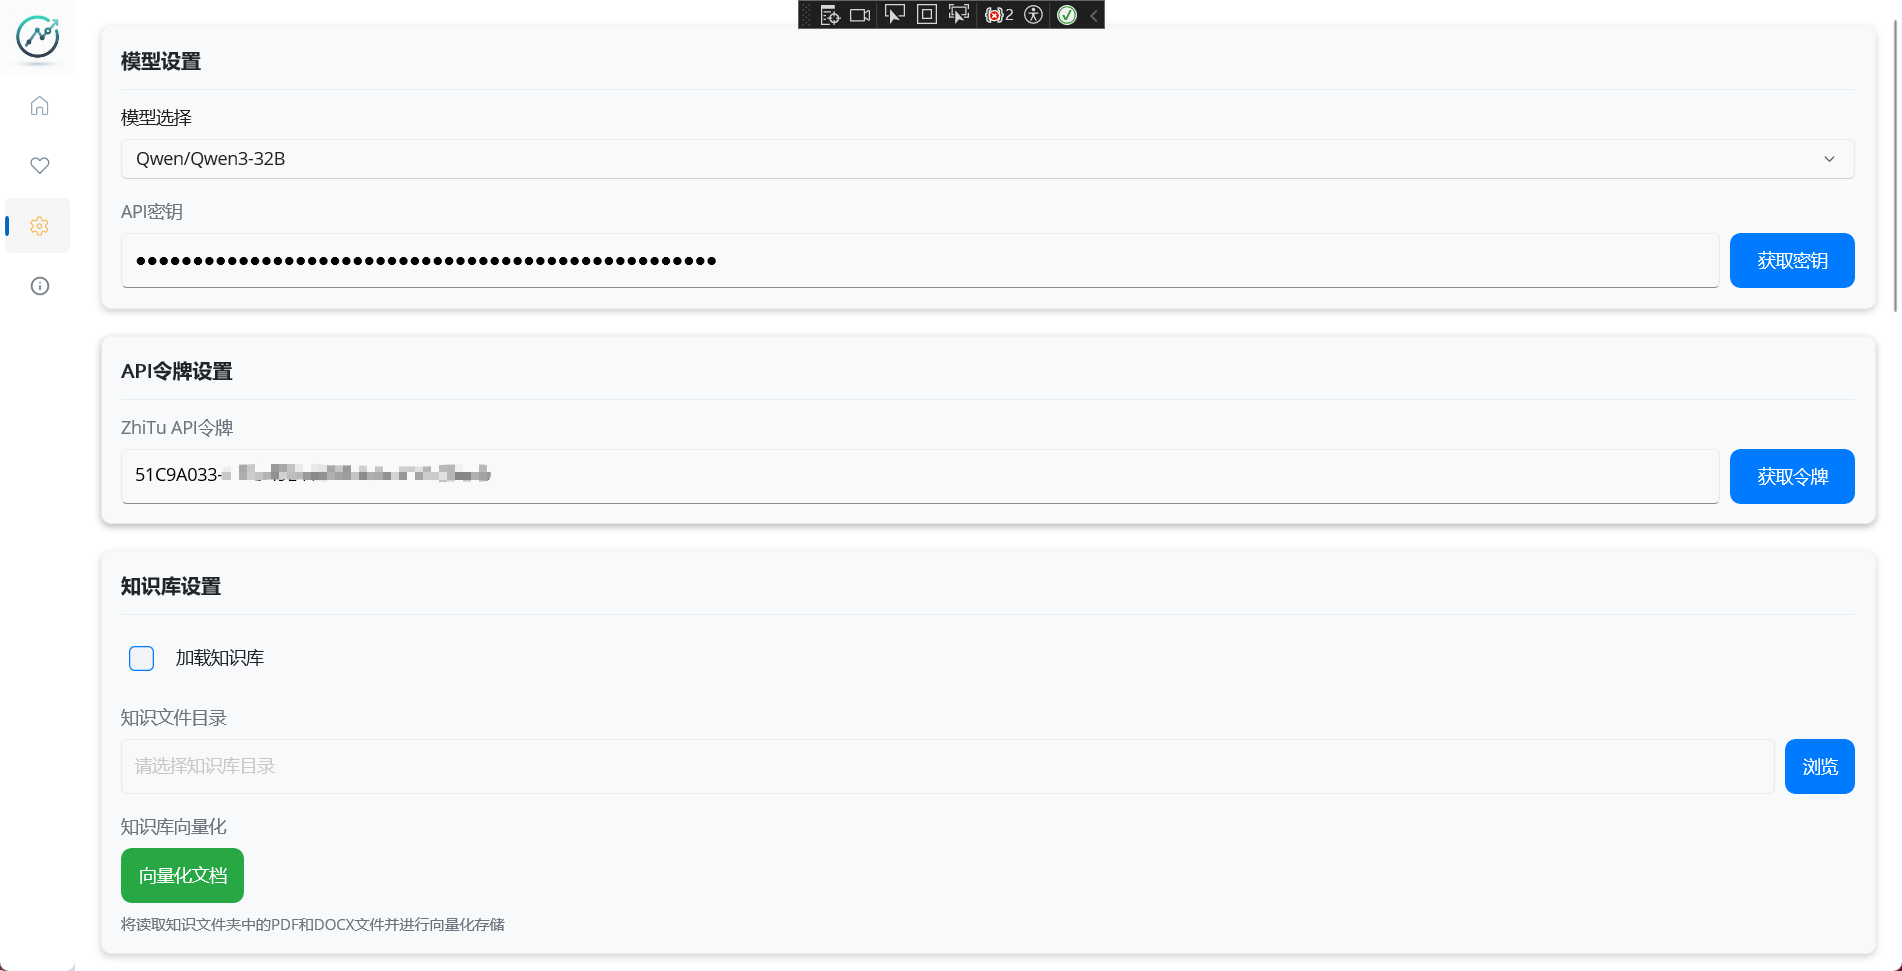
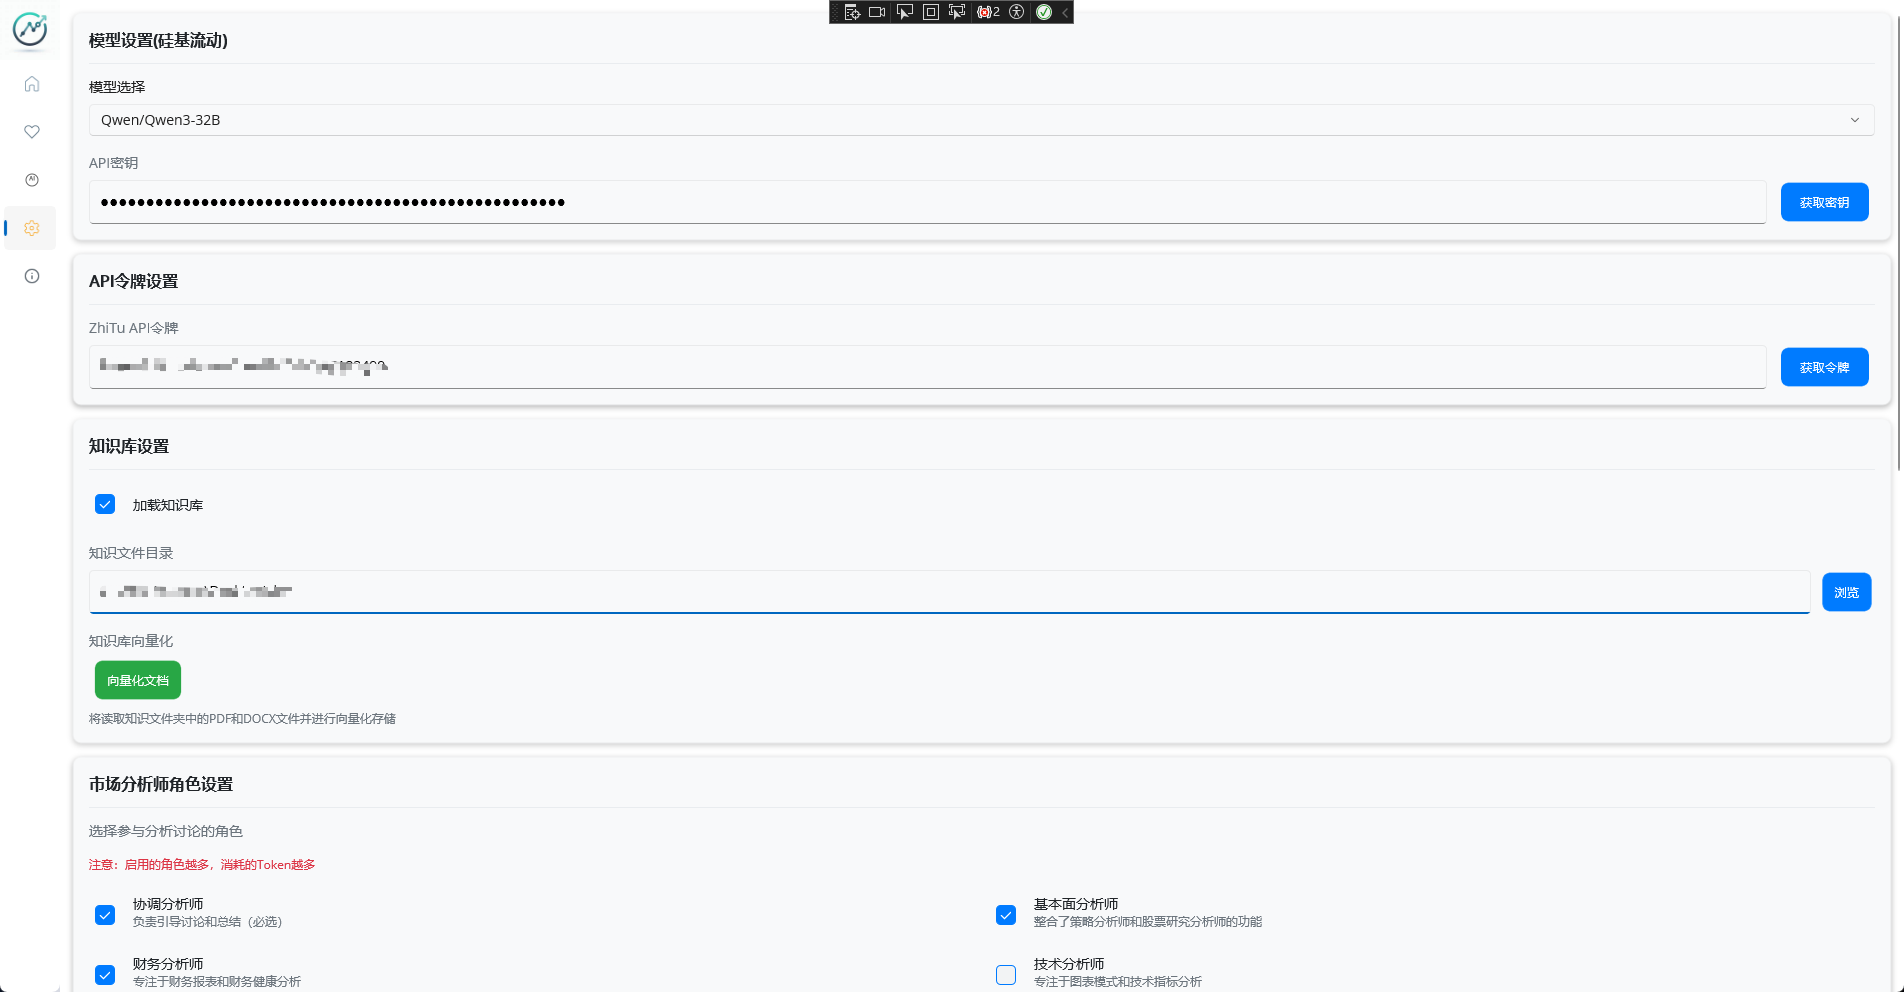
feat: 更新AI模型配置，添加SiliconCloud集成指南，优化README文档，新增性能优化建议和图像支持

diff --git a/README.md b/README.md
@@ -4,37 +4,31 @@
 
 支持市场整体/个股情绪分析，K线技术指标分析等功能。本项目仅供学习研究，投资有风险，入市需谨慎。
 
-## TODO
-
-- 增加股票推荐功能
-- 选定目录文档(Pdf,Docx)向量化搜索
-- SK Web Search 支持
-- MCP Client 支持
-- https://github.com/microsoft/semantic-kernel/blob/main/docs/decisions/0070-declarative-agent-schema.md
-- https://github.com/microsoft/semantic-kernel/blob/main/docs/decisions/0072-agents-with-memory.md
-- https://github.com/microsoft/semantic-kernel/blob/main/docs/decisions/0072-context-based-function-selection.md
-- https://learn.microsoft.com/zh-cn/semantic-kernel/frameworks/agent/agent-contextual-function-selection?pivots=programming-language-csharp#how-contextual-function-selection-works
-
-
-- 与其让子Agent把大块的结构化结果（代码、报告）通过对话历史传给主Agent（这会失真且昂贵），不如让它直接调用工具将产出物存到文件系统，再把轻量的“引用/指针”传回去。这能最大化保证并降低Token成本。
-- 总结已完成的阶段性工作，存入外部记忆，然后带着干净的上下文继续，通过“记忆”来保持连续性
-- 精细化任务指导（目前还是硬编码规划），主Agent会给子Agent非常明确的目标、输出格式和任务边界
-
 ## 📊 主要功能
 
 ### 股票分析
 
-- 基本面分析：公司基本情况、财务状况、行业地位等
-- 技术面分析：K线图、技术指标、趋势分析
-- 新闻事件分析：相关新闻、公告解读
-- 市场情绪分析：市场整体情绪、个股情绪
-- 财务分析：季度财报、现金流、盈利能力
+- **基本面分析**：公司基本情况、财务状况、行业地位等
+- **技术面分析**：K线图、技术指标、趋势分析
+- **新闻事件分析**：相关新闻、公告解读
+- **市场情绪分析**：市场整体情绪、个股情绪
+- **财务分析**：季度财报、现金流、盈利能力
+  
+### AI选股功能
+- **用户需求分析**: 根据投资偏好智能推荐股票
+- **新闻驱动选股**: 基于市场新闻事件进行选股
+- **快速策略选股**: 预设多种选股策略
+  - 价值股策略：PE<20, PB<3, ROE>10%
+  - 成长股策略：营收增长>20%, 利润增长>15%
+  - 大盘股策略：市值>500亿的蓝筹股
+  - 小盘股策略：50-200亿市值的成长股
+  - 红利股策略：股息率>3%的稳定分红股
 
 ### 文档向量化
 
-- 支持PDF、DOCX等文档格式
-- 向量化搜索，获取最新相关信息
-- 结合LLM进行智能分析
+- **向量化搜索**: 支持PDF、DOCX文档向量化
+- **知识库集成**: 结合本地文档进行深度分析
+- **上下文感知**: AI模型结合文档内容提供精准建议
 
 ### 数据可视化
 
@@ -42,15 +36,20 @@
 - 技术指标可视化
 - 分析结果直观展示
 
-## 🖥 平台支持
+## ⚙ 高级配置
 
-- Windows (WinUI)
-- MacOS
+### MCP服务器配置
+MarketAssistant支持Model Context Protocol (MCP)服务器配置，可以集成外部工具和数据源：
 
-## 🛠 技术栈
+1. 在设置页面点击"MCP服务器配置"
+2. 添加新的MCP服务器
+3. 配置服务器类型（stdio/sse/streamableHttp）
+4. 设置命令/URL和环境变量
 
-- .NET MAUI
-- Semantic Kernel
+### 向量数据库配置
+应用使用SQLite向量数据库存储文档嵌入：
+- 自动管理向量存储
+- 支持大规模文档检索
 
 ## 📸 功能截图
 
@@ -76,9 +75,60 @@
 ### K线
 ![K线](images/6.png)
 
+### AI选股
+![AI选股](images/7.png)
+
+## 🔍 性能优化建议
+
+### 1. 模型选择策略
+- **日常分析**: 使用免费的`Qwen/Qwen3-32B`模型
+- **深度研究**: 使用`deepseek-ai/DeepSeek-R1`或`Qwen3-235B-A22B`
+
+### 2. 成本控制
+- 合理设置分析师角色，避免不必要的API调用
+- 持续优化提示词
+
+## � 应用优势
+
+### 智能化程度高
+- 多个AI分析师协作，提供全方位分析视角
+- 自动整合多维度数据，生成专业投资报告
+
+### 使用便捷性
+- 一键开始分析，无需复杂配置
+- 支持多种选股策略，满足不同投资风格
+- 直观的可视化界面，易于理解分析结果
+
+### 专业性强
+- 涵盖基本面、技术面、情绪面等多重分析
+- 支持自定义文档库，增强分析深度
+- 提供具体的操作建议和风险提示
+
+## 🔒 安全性说明
+
+### API密钥安全
+- API密钥使用本地加密存储
+- 不会上传到任何第三方服务器
+- 建议定期更换API密钥
+
+### 数据隐私
+- 所有股票分析数据仅在本地处理
+- 向量化文档存储在本地SQLite数据库
+- 仅分析请求会发送到大模型服务商
+  
+## 🖥 平台支持
+
+- Windows (WinUI)
+- MacOS
+
+## 🛠 技术栈
+
+- .NET MAUI
+- Semantic Kernel
+  
 ## 🙏 鸣谢
 
-本项目大部分代码由 AI 智能编程助手生成。在此特别感谢 Trae AI 强大的代码生成能力，为本项目的开发提供了极大帮助。
+本项目大部分代码由 AI 智能编程助手生成。在此特别感谢 Trae AI、Copilot、Cursor 强大的代码生成能力，为本项目的开发提供了极大帮助。
 
 
 ## 📄 许可证

diff --git a/MarketAssistant/docs/SiliconCloud集成指南.md b/MarketAssistant/docs/SiliconCloud集成指南.md
@@ -1,0 +1,114 @@
+# MarketAssistant SiliconCloud 集成配置指南
+
+## 📥 软件下载
+
+在开始配置之前，请确保您已经安装了MarketAssistant：
+
+**下载地址**: [MarketAssistant Releases](https://github.com/X2Agent/MarketAssistant/releases)
+
+请选择适合您操作系统的版本进行下载和安装。
+
+## �📋 关于本指南
+
+本指南专门介绍如何在MarketAssistant中配置和使用SiliconCloud的AI模型服务。
+
+> 📝 **提示**: 如果您想了解MarketAssistant的完整功能介绍，请参考项目的[官方文档](https://github.com/X2Agent/MarketAssistant)。
+
+SiliconCloud为MarketAssistant提供了强大的大语言模型支持，本指南将帮助您：
+- 快速配置SiliconCloud API
+- 选择合适的AI模型
+- 优化使用成本和性能
+- 解决常见的集成问题
+
+## 🚀 快速配置
+
+### 步骤1: 获取SiliconCloud API密钥
+1. 访问 [SiliconCloud官网](https://cloud.siliconflow.cn/) 
+2. 完成注册后，进入 [API密钥管理页面](https://cloud.siliconflow.cn/account/ak)
+3. 点击"创建新密钥"
+4. 复制生成的API Key（请妥善保存）
+
+### 步骤2: 在MarketAssistant中配置
+
+1. 打开MarketAssistant应用
+2. 导航到"设置"页面
+3. 在"AI模型配置"部分填入：
+   <!-- - **API端点**: `https://api.siliconflow.cn` -->
+   - **API密钥**: 粘贴您的SiliconCloud API Key
+   - **模型ID**: 选择合适的模型（见下方推荐）
+   - **嵌入模型**: 保持默认`BAAI/bge-m3`
+4. 若需获取股票数据，请前往 [智兔官网](https://www.zhituapi.com/) 注册并获取Token，然后在此处填写对应的Token
+5. 点击"保存"按钮
+
+![alt text](../../images/3.png)
+
+### 步骤3: 验证配置
+1. 保存配置后，尝试进行一次股票分析
+2. 如果分析成功，说明配置正确
+3. 如有问题，请查看应用日志
+
+## 🤖 模型选择指南
+
+### 推荐配置组合
+
+| 使用场景       | 推荐模型                        | 特点                   | 适用对象   |
+| -------------- | ------------------------------- | ---------------------- | ---------- |
+| **日常使用**   | `Qwen/Qwen3-32B`                | 快速响应，成本较低     | 个人投资者 |
+| **专业分析**   | `deepseek-ai/DeepSeek-R1`       | 推理能力强，分析深度高 | 专业投资者 |
+| **长文档处理** | `Tongyi-Zhiwen/QwenLong-L1-32B` | 支持长上下文           | 研报分析   |
+| **复杂策略**   | `Qwen/Qwen3-235B-A22B`          | 超强理解能力           | 量化策略   |
+
+### 完整支持列表
+- `Qwen/Qwen3-32B` - 通义千问32B版本
+- `deepseek-ai/DeepSeek-R1` - DeepSeek推理模型
+- `deepseek-ai/DeepSeek-V3` - DeepSeek V3版本
+- `Qwen/Qwen3-235B-A22B` - 超大规模模型
+- `Tongyi-Zhiwen/QwenLong-L1-32B` - 长文本模型
+- `THUDM/GLM-4-32B-0414` - 智谱GLM-4模型
+- `THUDM/GLM-Z1-Rumination-32B-0414` - 深度思考模型
+- `tencent/Hunyuan-A13B-Instruct` - 腾讯混元模型
+- `moonshotai/Kimi-K2-Instruct` - Kimi K2模型
+
+## 🔒 安全最佳实践
+
+### API密钥安全
+- ✅ **安全做法**:
+  - API密钥仅存储在本地
+  - 定期更换API密钥
+
+### 数据隐私
+- 股票分析数据仅在本地处理
+- 仅向SiliconCloud发送分析请求
+- 向量化文档存储在本地SQLite数据库
+
+## 📊 优化建议
+
+1. **模型调优**: 根据实际使用效果调整模型选择
+2. **批量处理**: 充分利用AI选股等批量功能
+3. **配置调整**: 根据使用模式调整分析师角色
+
+## 📞 技术支持
+
+### 获取帮助
+- **SiliconCloud官方支持**: [support@siliconflow.cn](mailto:support@siliconflow.cn)
+- **MarketAssistant问题**: 查看项目GitHub页面的Issues部分
+- **社区讨论**: 参与相关技术社区讨论
+
+### 故障报告
+如遇到技术问题，请提供以下信息：
+1. MarketAssistant版本号
+2. 使用的SiliconCloud模型
+3. 具体错误信息和日志
+4. 复现步骤
+
+---
+
+## 📝 小结
+
+通过本指南，您应该能够：
+- ✅ 成功配置SiliconCloud API
+- ✅ 选择适合的AI模型
+- ✅ 优化使用成本
+- ✅ 解决常见问题
+
+配置完成后，您就可以充分利用SiliconCloud的AI能力进行专业的股票分析了。如有疑问，请参考故障排除部分或寻求技术支持。

diff --git a/MarketAssistant/docs/Todo.md b/MarketAssistant/docs/Todo.md
@@ -1,0 +1,12 @@
+## TODO
+
+- 选定目录文档(Pdf,Docx)向量化搜索
+- SK Web Search 支持
+- MCP Client 支持
+- https://github.com/microsoft/semantic-kernel/blob/main/docs/decisions/0070-declarative-agent-schema.md
+- https://github.com/microsoft/semantic-kernel/blob/main/docs/decisions/0072-agents-with-memory.md
+- https://github.com/microsoft/semantic-kernel/blob/main/docs/decisions/0072-context-based-function-selection.md
+- https://learn.microsoft.com/zh-cn/semantic-kernel/frameworks/agent/agent-contextual-function-selection?pivots=programming-language-csharp#how-contextual-function-selection-works
+- 与其让子Agent把大块的结构化结果（代码、报告）通过对话历史传给主Agent（这会失真且昂贵），不如让它直接调用工具将产出物存到文件系统，再把轻量的“引用/指针”传回去。这能最大化保证并降低Token成本。
+- 总结已完成的阶段性工作，存入外部记忆，然后带着干净的上下文继续，通过“记忆”来保持连续性
+- 精细化任务指导（目前还是硬编码规划），主Agent会给子Agent非常明确的目标、输出格式和任务边界
